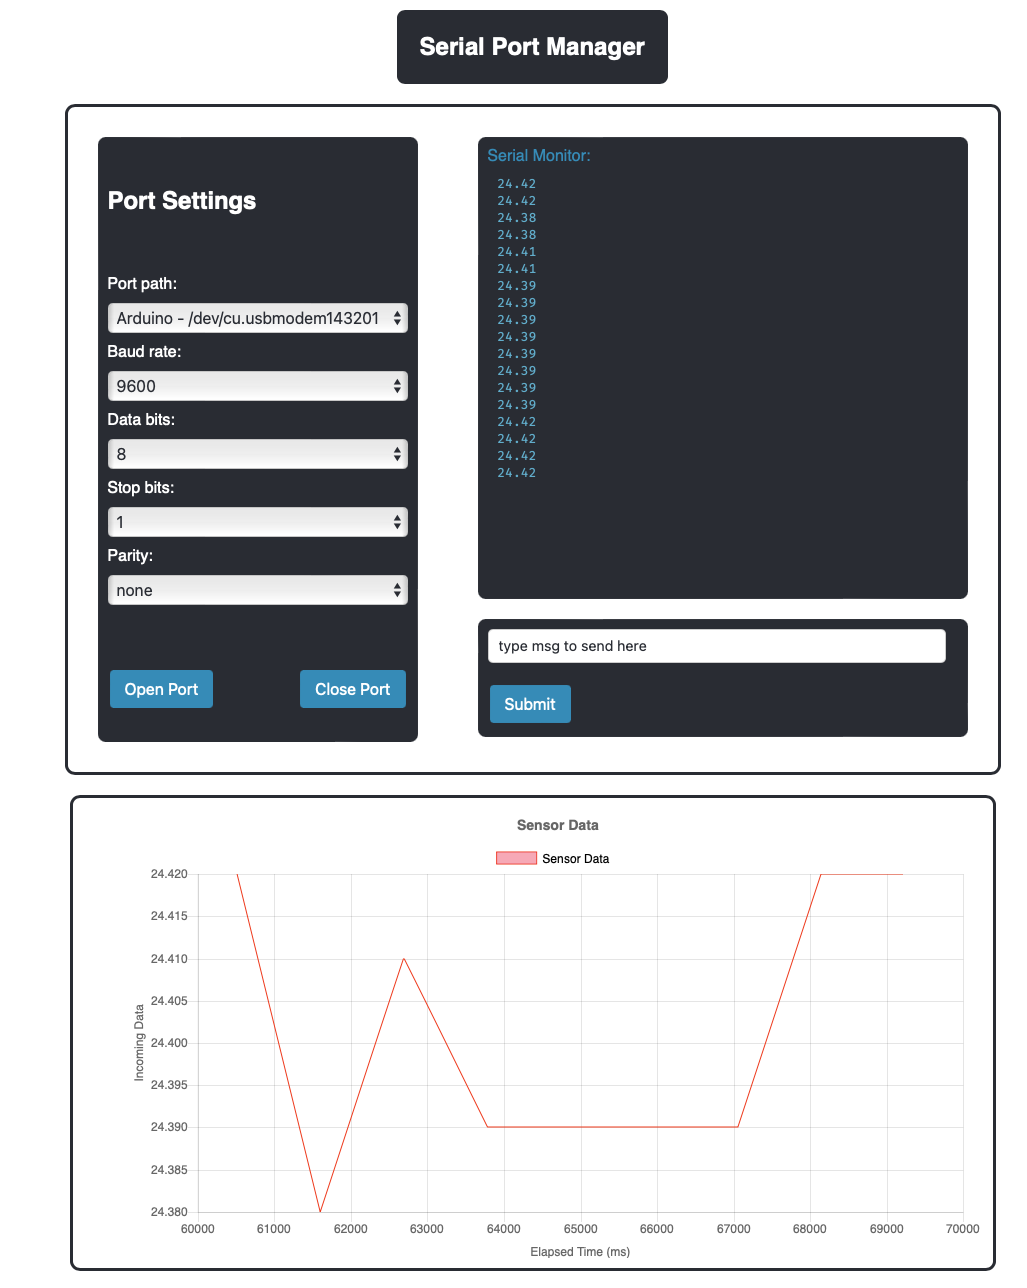
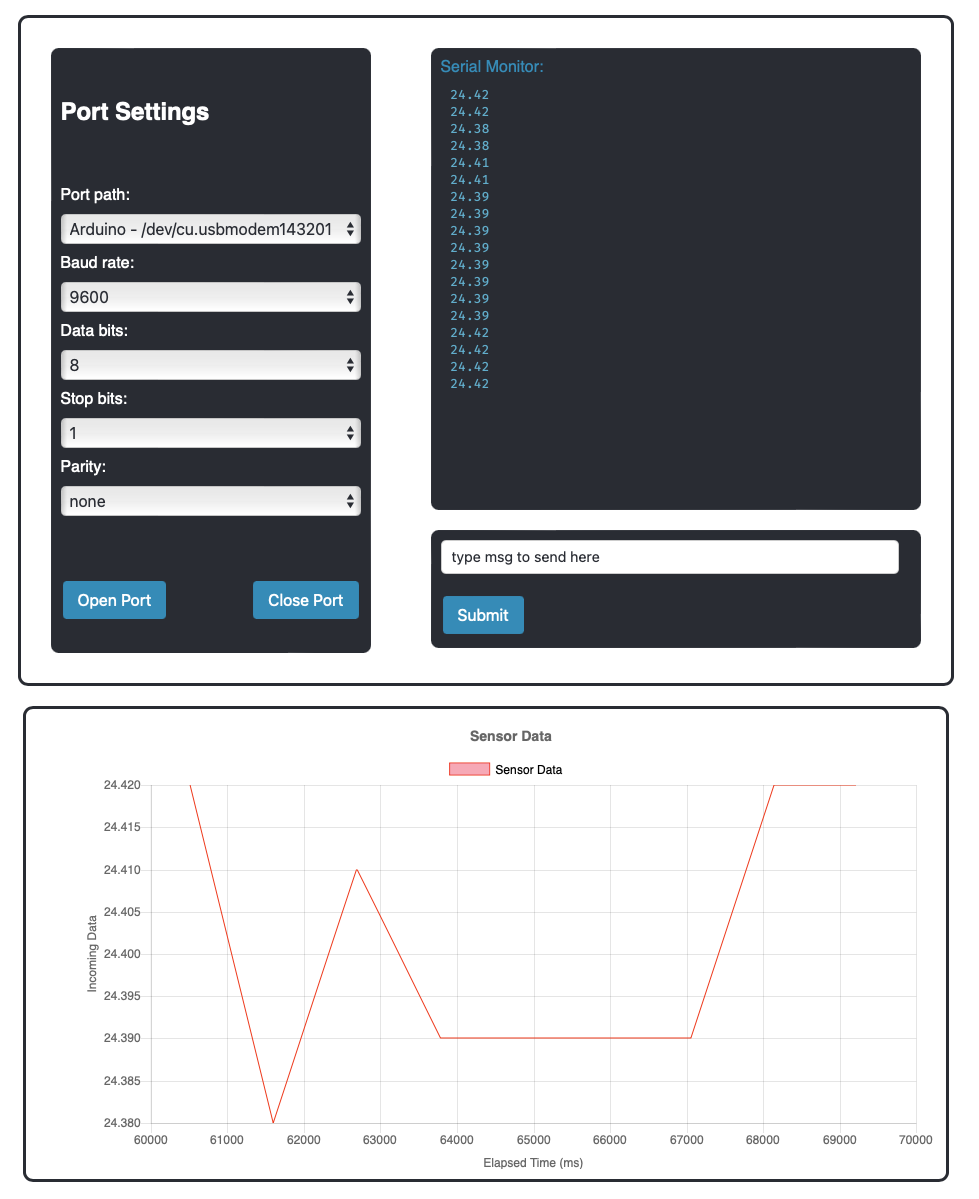
fixed pic and reame.md

diff --git a/README.md b/README.md
@@ -4,6 +4,9 @@ This project is a web application for communicating with serial ports and displa
 
 ## Features
 
+
+<img src="https://github.com/manokel01/serial-monitor-node-ajax/blob/main/serialport-manager-ui.png>" alt="UI image" title="UI image">
+
 - List available serial ports on the server.
 - Open a serial port connection with configurable properties (baud rate, data bits, stop bits, parity).
 - Receive and display real-time data from the serial port.
